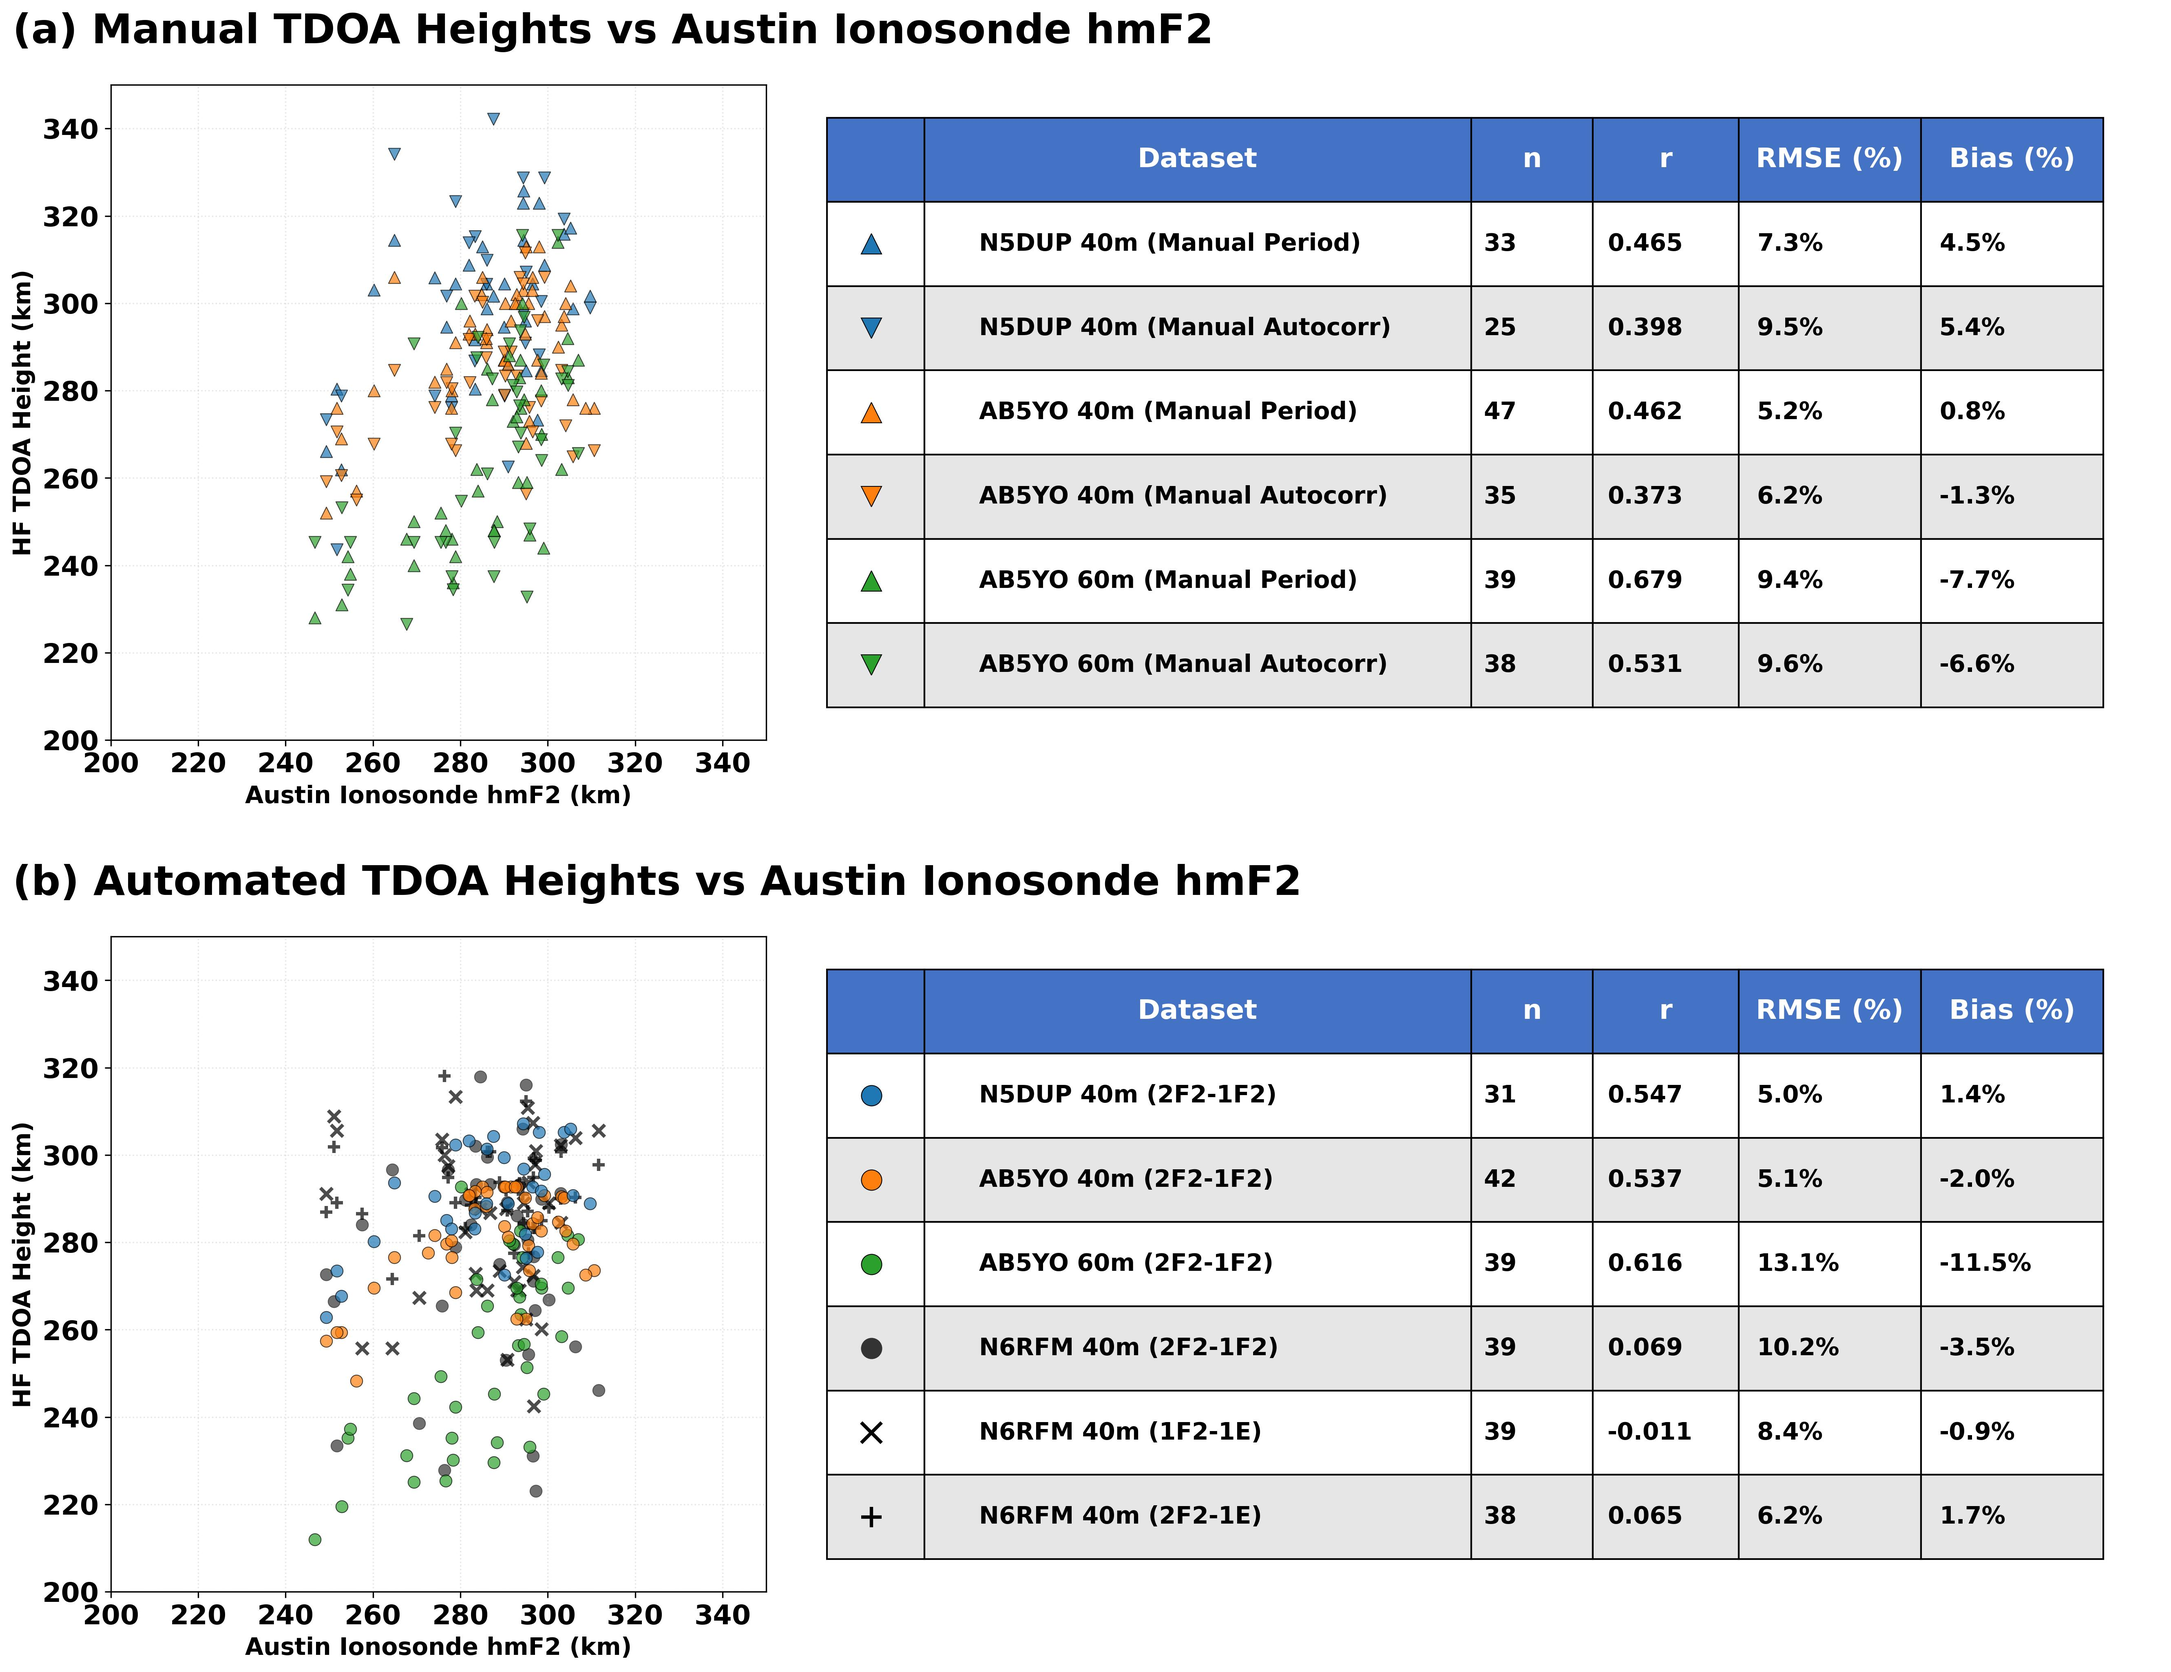
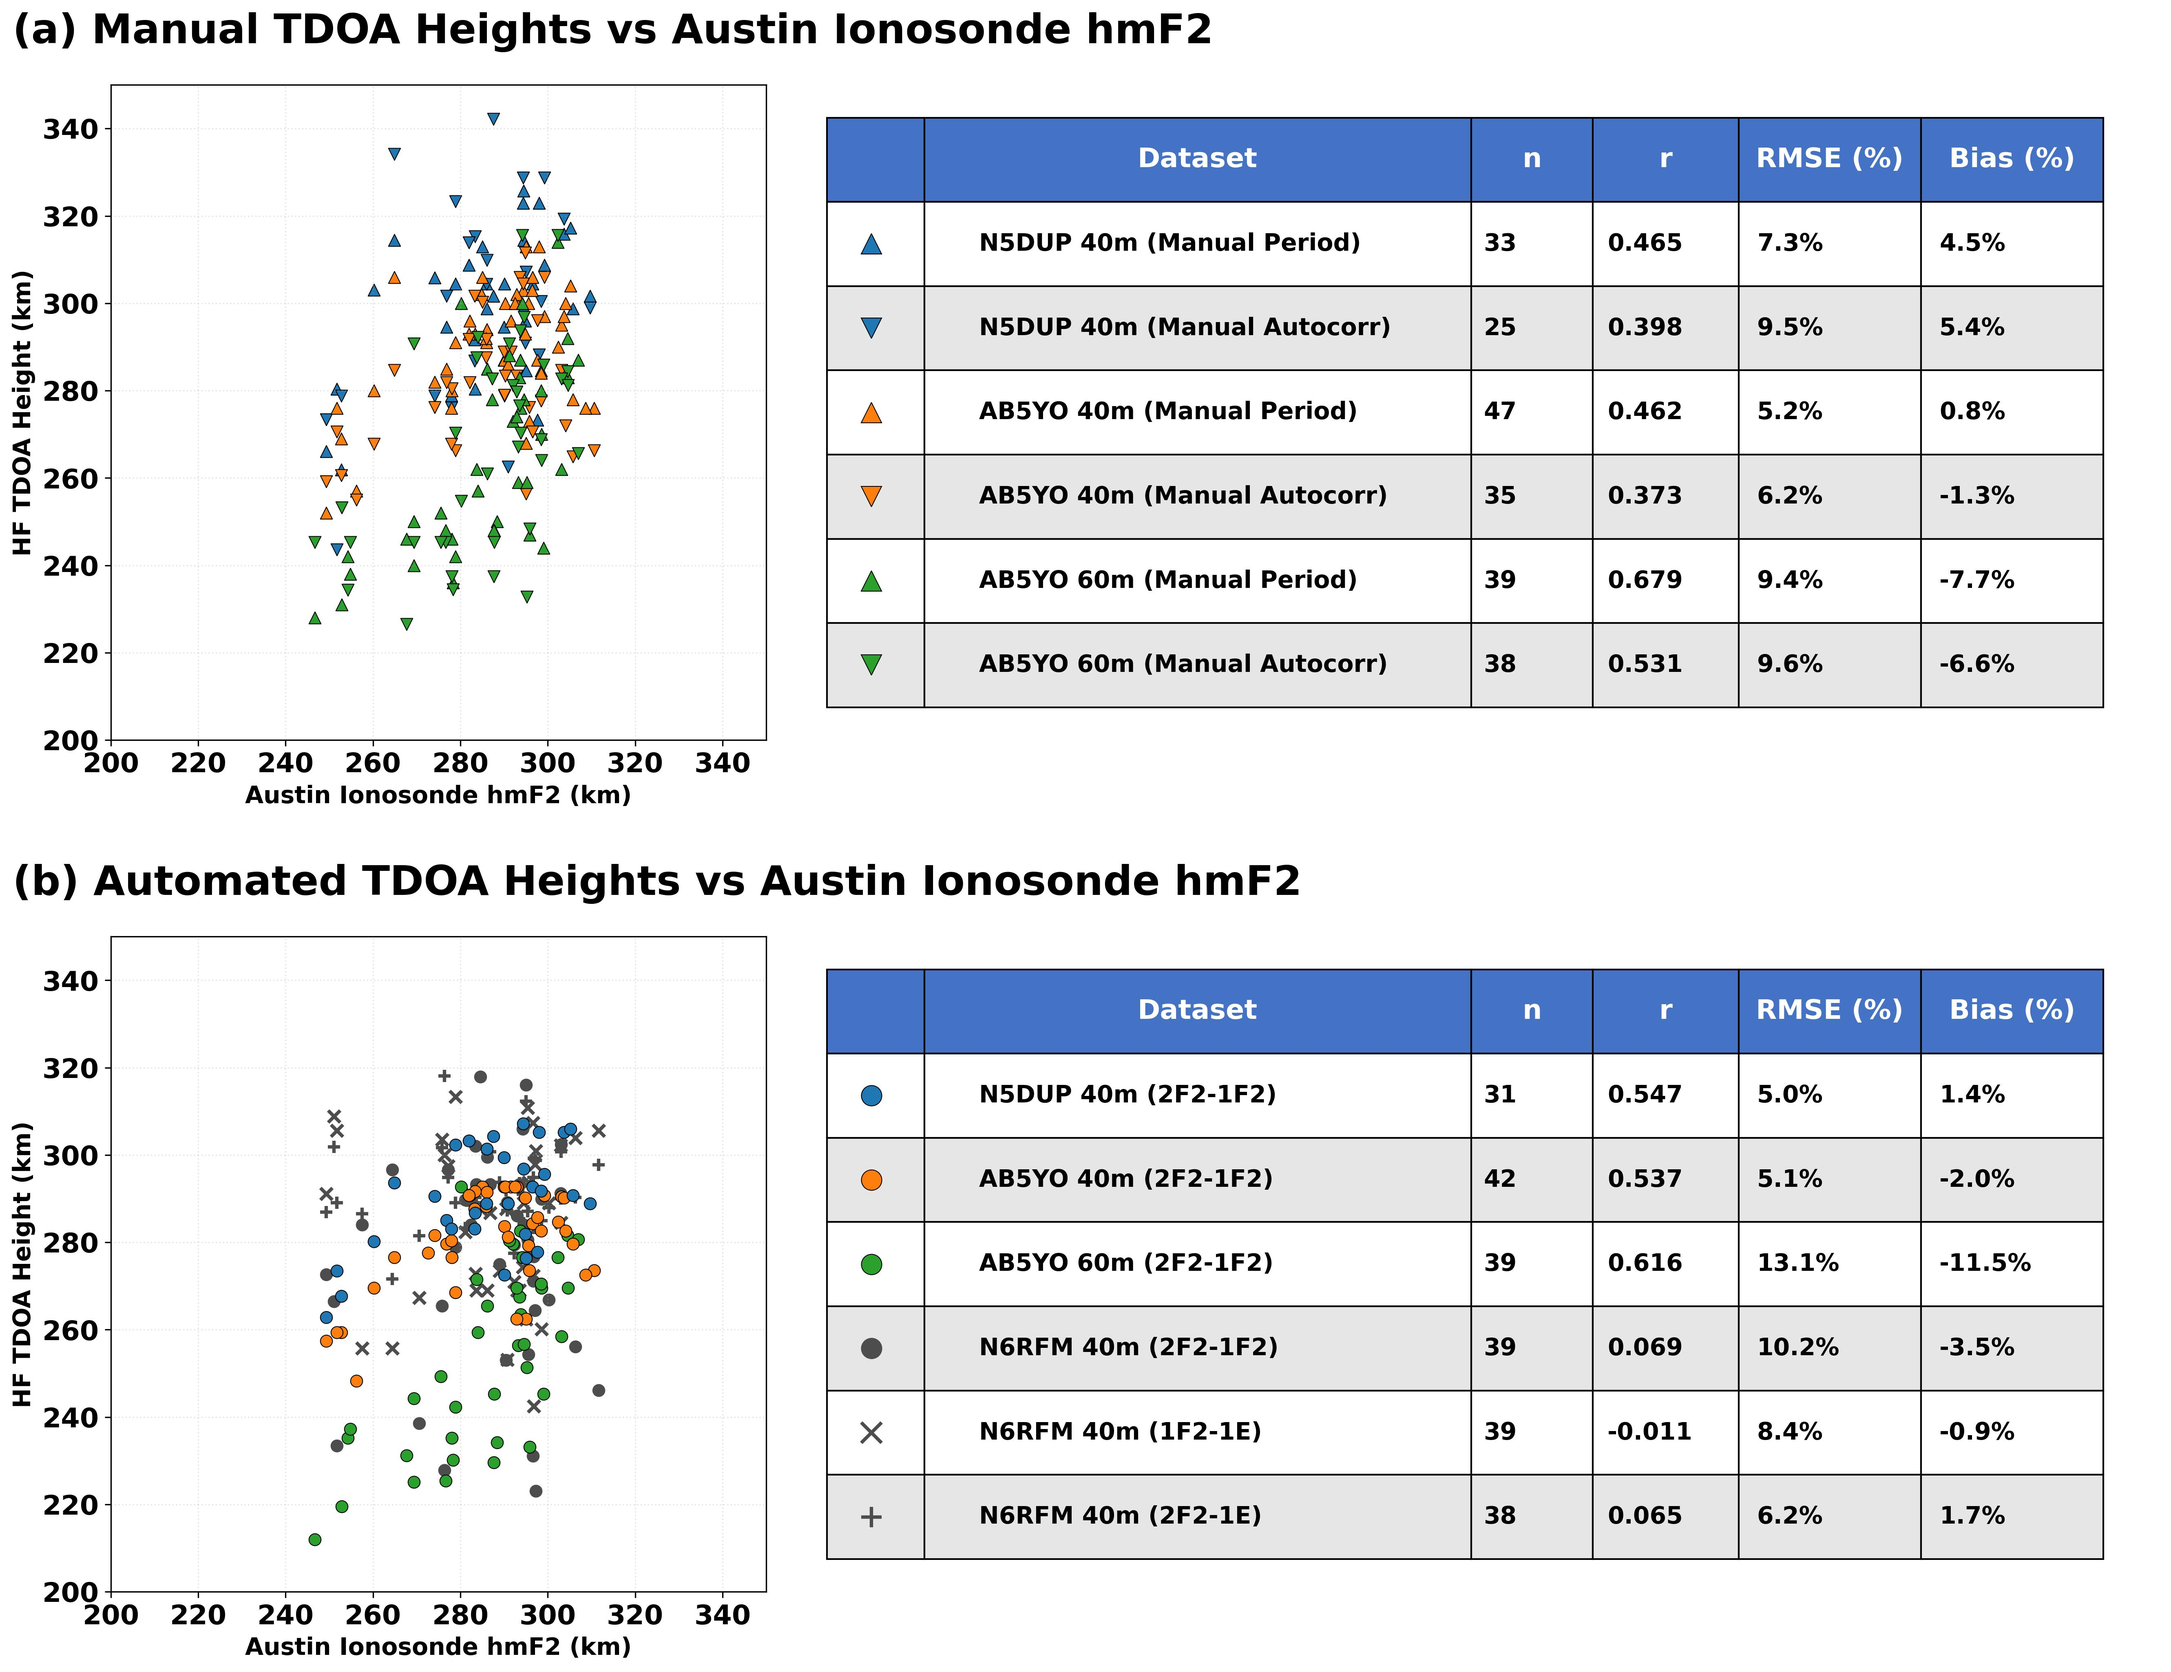
somewhat reasonable draft figure 14

Changed region(s): [[0.1559, 0.6554, 0.2806, 0.9051], [0.1871, 0.1248, 0.2806, 0.3433], [0.1247, 0.7803, 0.1559, 0.8115]]

diff --git a/hf_tdoa/hf_tdoa_lib.py b/hf_tdoa/hf_tdoa_lib.py
@@ -2589,7 +2589,7 @@ def plot_resampling_validation(original_df, resampled_df, label, color,
 
 
 def plot_scatter_comparison(tdoa_height, ionosonde_hmf2, label, color,
-                             ax=None, marker='o', s=50, alpha=0.7,
+                             ax=None, marker='o', s=50, alpha=1.0,
                              show_1to1=True, show_stats=True, edgecolor='black', zorder=None,
                              linewidths=None):
     """
